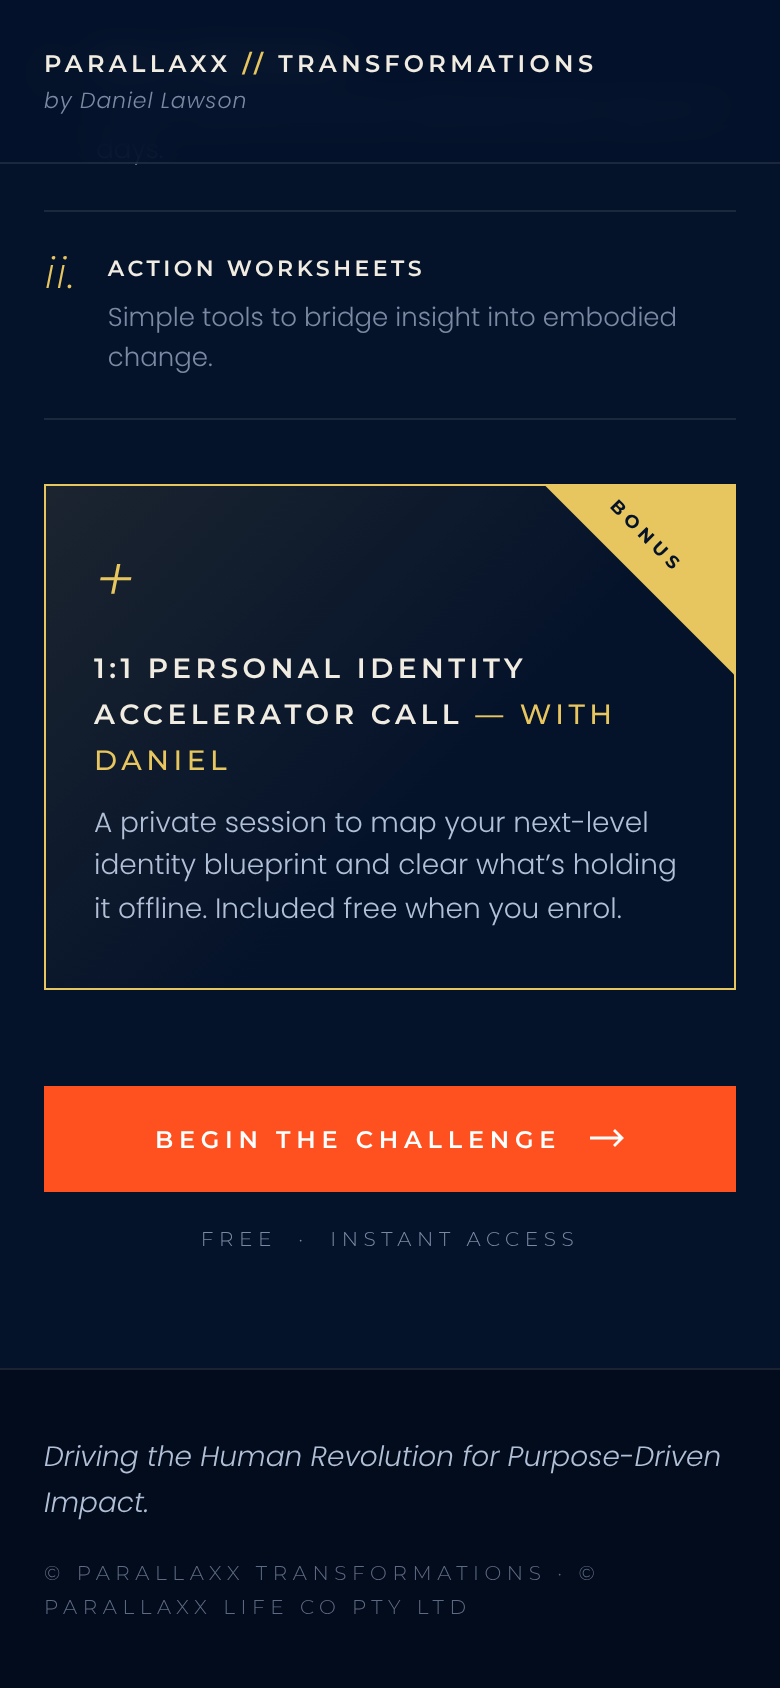
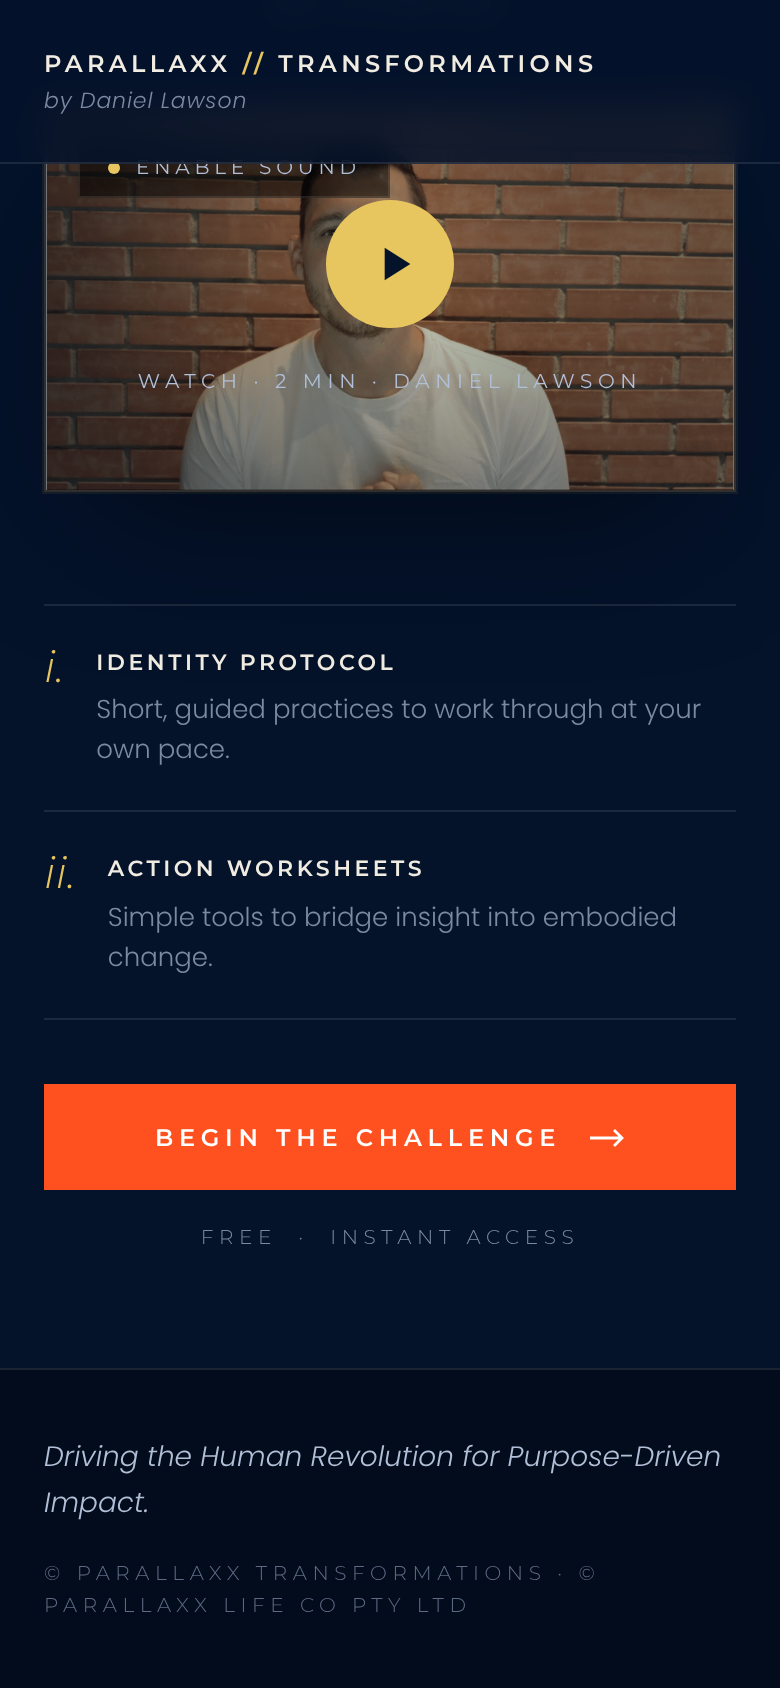
Identity 2.0 page: no '7-Day', no daily delivery, no bonus call (not published)
Daniel, 24 Nov 2026: the two wording edits 'approved'; the bonus 1:1 call is
no longer offered ('No'); 'Daily Protocol' to change. The heading is built as
'Identity Protocol' as a placeholder choice until he picks. Title and
descriptions updated to match. Pictures retaken.

Claude-Session: https://claude.ai/code/session_01CeCNG1XNZUuvNZJZtKDaWa

diff --git a/Parallaxx Identity 2.0.dc.html b/Parallaxx Identity 2.0.dc.html
@@ -249,7 +249,7 @@
     <a class="id2-brand" href="https://www.parallaxxtransformations.com">PARALLAXX <span>//</span> TRANSFORMATIONS
       <small>by Daniel Lawson</small>
     </a>
-    <span class="id2-tag">Free 7-Day Challenge</span>
+    <span class="id2-tag">Free Challenge</span>
   </div>
 </header>
 
@@ -258,7 +258,7 @@
     <div class="id2-hero-inner id2-reveal">
       <p class="id2-hero-eyebrow">
         <span class="dash" aria-hidden="true"></span>
-        <span class="id2-eyebrow">A Free 7-Day Challenge</span>
+        <span class="id2-eyebrow">A Free Challenge</span>
       </p>
       <h1>Identity <span class="accent">2.0</span><br>Challenge</h1>
       <p class="id2-lede">Because the version of you that got you here is not yet the one to lead you to your <strong>meaning-driven impact.</strong></p>
@@ -300,8 +300,13 @@
     <div class="id2-quick id2-reveal">
       <div class="id2-quick-item">
         <span class="id2-quick-num">i.</span>
-        <span class="id2-quick-text">Daily Protocol
-          <small>A short, guided practice delivered each day for 7 days.</small></span>
+        <!-- 24 Nov 2026, Daniel: nothing is sent daily any more ("delivered each
+             day for 7 days - this isn't available anymore"); the course is ten
+             videos worked through at her own pace. The line under the heading is
+             his approved wording. THE HEADING IS A PLACEHOLDER CHOICE: he asked
+             for "Daily Protocol" to change and has not yet picked its words. -->
+        <span class="id2-quick-text">Identity Protocol
+          <small>Short, guided practices to work through at your own pace.</small></span>
       </div>
       <div class="id2-quick-item">
         <span class="id2-quick-num">ii.</span>
@@ -310,14 +315,9 @@
       </div>
     </div>
 
-    <div class="id2-bonus id2-reveal">
-      <span class="id2-bonus-label">Bonus</span>
-      <span class="id2-bonus-mark" aria-hidden="true">+</span>
-      <div>
-        <h3>1:1 Personal Identity Accelerator Call <span class="with">&mdash; with Daniel</span></h3>
-        <p>A private session to map your next-level identity blueprint and clear what&rsquo;s holding it offline. Included free when you enrol.</p>
-      </div>
-    </div>
+    <!-- The bonus 1:1 call block was here. Removed 24 Nov 2026: Daniel, asked
+         whether the call is still on offer, "No". Its styles (.id2-bonus) are
+         left in the stylesheet, unused, in case a bonus returns. -->
 
     <!-- THE BUTTON OPENS THE REGISTRATION FORM (24 Nov 2026, Daniel: "the
          registration button opens a simple form"). Until then it was a link to

diff --git a/identity-preview.html b/identity-preview.html
@@ -243,7 +243,7 @@
     <a class="id2-brand" href="https://www.parallaxxtransformations.com">PARALLAXX <span>//</span> TRANSFORMATIONS
       <small>by Daniel Lawson</small>
     </a>
-    <span class="id2-tag">Free 7-Day Challenge</span>
+    <span class="id2-tag">Free Challenge</span>
   </div>
 </header>
 
@@ -252,7 +252,7 @@
     <div class="id2-hero-inner id2-reveal">
       <p class="id2-hero-eyebrow">
         <span class="dash" aria-hidden="true"></span>
-        <span class="id2-eyebrow">A Free 7-Day Challenge</span>
+        <span class="id2-eyebrow">A Free Challenge</span>
       </p>
       <h1>Identity <span class="accent">2.0</span><br>Challenge</h1>
       <p class="id2-lede">Because the version of you that got you here is not yet the one to lead you to your <strong>meaning-driven impact.</strong></p>
@@ -294,8 +294,13 @@
     <div class="id2-quick id2-reveal">
       <div class="id2-quick-item">
         <span class="id2-quick-num">i.</span>
-        <span class="id2-quick-text">Daily Protocol
-          <small>A short, guided practice delivered each day for 7 days.</small></span>
+        <!-- 24 Nov 2026, Daniel: nothing is sent daily any more ("delivered each
+             day for 7 days - this isn't available anymore"); the course is ten
+             videos worked through at her own pace. The line under the heading is
+             his approved wording. THE HEADING IS A PLACEHOLDER CHOICE: he asked
+             for "Daily Protocol" to change and has not yet picked its words. -->
+        <span class="id2-quick-text">Identity Protocol
+          <small>Short, guided practices to work through at your own pace.</small></span>
       </div>
       <div class="id2-quick-item">
         <span class="id2-quick-num">ii.</span>
@@ -304,14 +309,9 @@
       </div>
     </div>
 
-    <div class="id2-bonus id2-reveal">
-      <span class="id2-bonus-label">Bonus</span>
-      <span class="id2-bonus-mark" aria-hidden="true">+</span>
-      <div>
-        <h3>1:1 Personal Identity Accelerator Call <span class="with">&mdash; with Daniel</span></h3>
-        <p>A private session to map your next-level identity blueprint and clear what&rsquo;s holding it offline. Included free when you enrol.</p>
-      </div>
-    </div>
+    <!-- The bonus 1:1 call block was here. Removed 24 Nov 2026: Daniel, asked
+         whether the call is still on offer, "No". Its styles (.id2-bonus) are
+         left in the stylesheet, unused, in case a bonus returns. -->
 
     <!-- THE BUTTON OPENS THE REGISTRATION FORM (24 Nov 2026, Daniel: "the
          registration button opens a simple form"). Until then it was a link to

diff --git a/parallaxx-identity.js b/parallaxx-identity.js
@@ -244,7 +244,7 @@
     <a class="id2-brand" href="https://www.parallaxxtransformations.com">PARALLAXX <span>//</span> TRANSFORMATIONS
       <small>by Daniel Lawson</small>
     </a>
-    <span class="id2-tag">Free 7-Day Challenge</span>
+    <span class="id2-tag">Free Challenge</span>
   </div>
 </header>
 
@@ -253,7 +253,7 @@
     <div class="id2-hero-inner id2-reveal">
       <p class="id2-hero-eyebrow">
         <span class="dash" aria-hidden="true"></span>
-        <span class="id2-eyebrow">A Free 7-Day Challenge</span>
+        <span class="id2-eyebrow">A Free Challenge</span>
       </p>
       <h1>Identity <span class="accent">2.0</span><br>Challenge</h1>
       <p class="id2-lede">Because the version of you that got you here is not yet the one to lead you to your <strong>meaning-driven impact.</strong></p>
@@ -295,8 +295,13 @@
     <div class="id2-quick id2-reveal">
       <div class="id2-quick-item">
         <span class="id2-quick-num">i.</span>
-        <span class="id2-quick-text">Daily Protocol
-          <small>A short, guided practice delivered each day for 7 days.</small></span>
+        <!-- 24 Nov 2026, Daniel: nothing is sent daily any more ("delivered each
+             day for 7 days - this isn't available anymore"); the course is ten
+             videos worked through at her own pace. The line under the heading is
+             his approved wording. THE HEADING IS A PLACEHOLDER CHOICE: he asked
+             for "Daily Protocol" to change and has not yet picked its words. -->
+        <span class="id2-quick-text">Identity Protocol
+          <small>Short, guided practices to work through at your own pace.</small></span>
       </div>
       <div class="id2-quick-item">
         <span class="id2-quick-num">ii.</span>
@@ -305,14 +310,9 @@
       </div>
     </div>
 
-    <div class="id2-bonus id2-reveal">
-      <span class="id2-bonus-label">Bonus</span>
-      <span class="id2-bonus-mark" aria-hidden="true">+</span>
-      <div>
-        <h3>1:1 Personal Identity Accelerator Call <span class="with">&mdash; with Daniel</span></h3>
-        <p>A private session to map your next-level identity blueprint and clear what&rsquo;s holding it offline. Included free when you enrol.</p>
-      </div>
-    </div>
+    <!-- The bonus 1:1 call block was here. Removed 24 Nov 2026: Daniel, asked
+         whether the call is still on offer, "No". Its styles (.id2-bonus) are
+         left in the stylesheet, unused, in case a bonus returns. -->
 
     <!-- THE BUTTON OPENS THE REGISTRATION FORM (24 Nov 2026, Daniel: "the
          registration button opens a simple form"). Until then it was a link to

diff --git a/migration/build-site.py b/migration/build-site.py
@@ -472,13 +472,12 @@ ROUTES = [
         # Built here rather than at /identity-2-0 because this is the URL the
         # footer already links and the one any old inbound link points at.
         # Nothing to redirect and nothing to repoint.
-        title="Identity 2.0 Challenge | Free 7-Day Challenge | Parallaxx",
-        desc="A free seven day challenge with Daniel Lawson. A short guided practice "
-             "each day, action worksheets, and a one to one identity accelerator call "
-             "included when you enrol.",
+        title="Identity 2.0 Challenge | Free Challenge | Parallaxx",
+        desc="A free challenge with Daniel Lawson. Short guided practices at your own "
+             "pace, and action worksheets.",
         og_title="Identity 2.0 Challenge",
         og_desc="Because the version of you that got you here is not yet the one to "
-                "lead you to your meaning-driven impact. A free 7-day challenge.",
+                "lead you to your meaning-driven impact. A free challenge.",
         # [OPEN] Borrowing the home card. This page wants one of its own before
         # it is used in an ad or shared deliberately.
         og_img="img/og-home.jpg",
